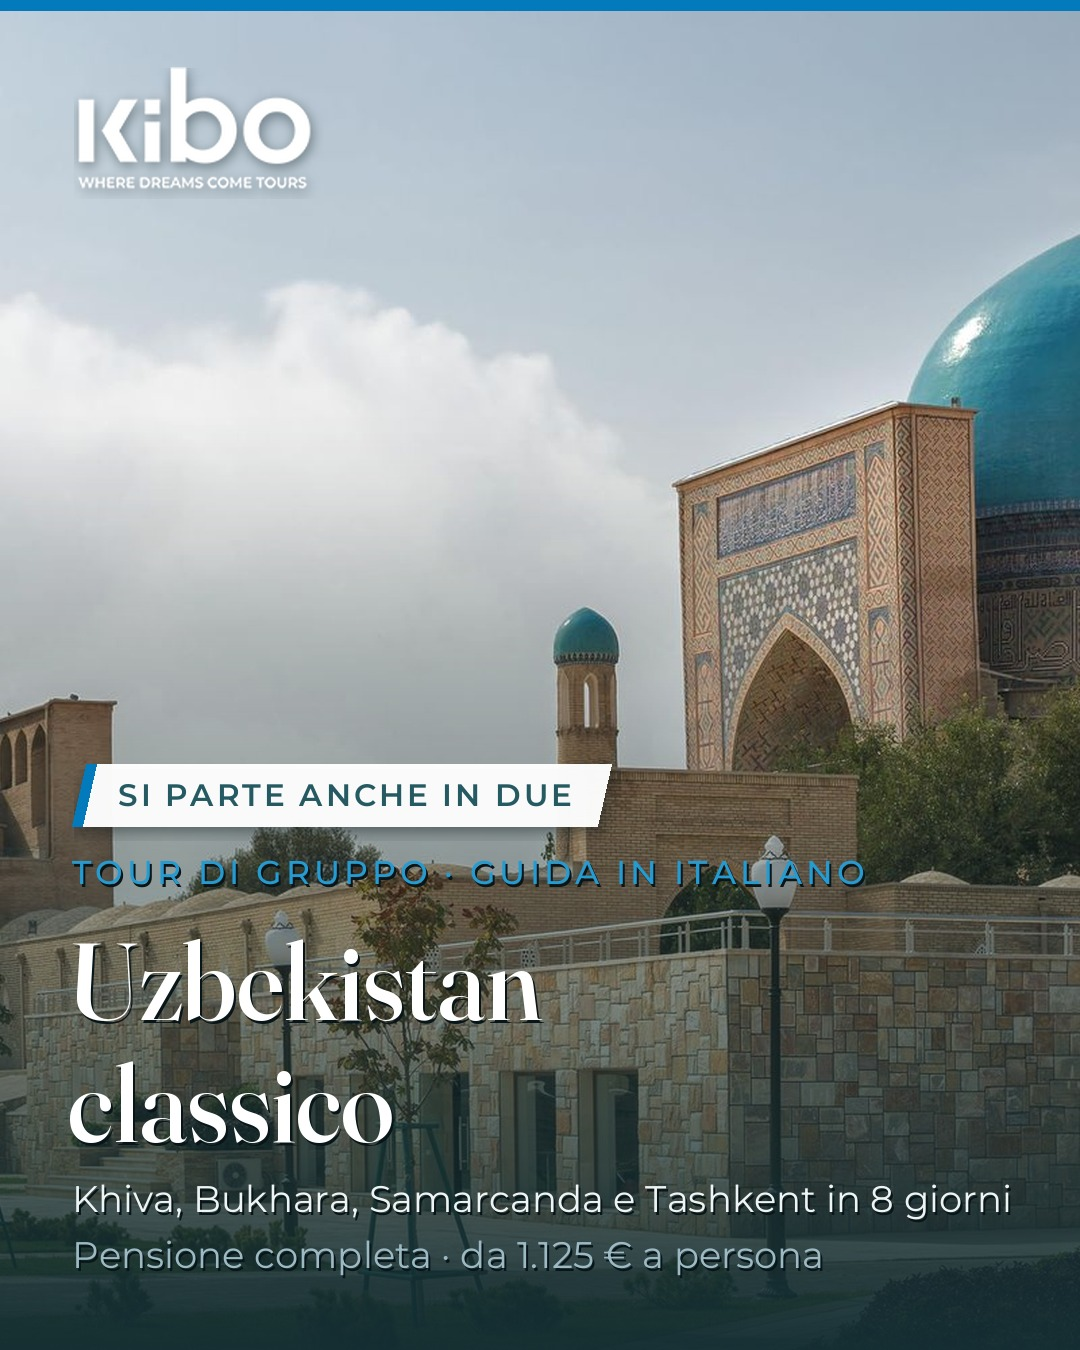
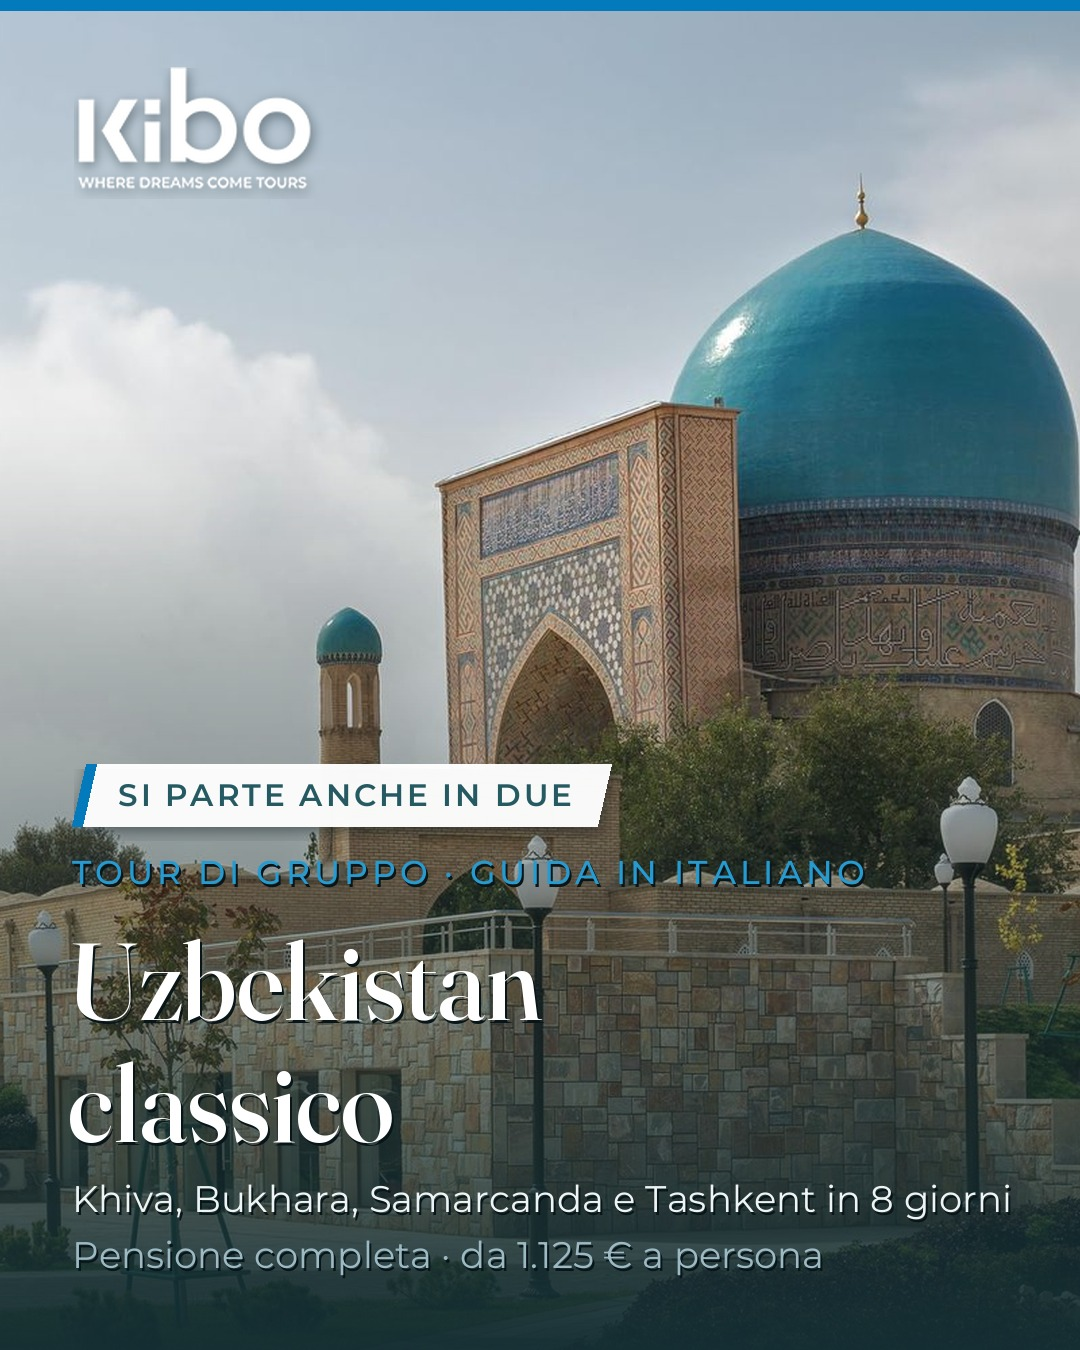
social.py: focus_x per il ritaglio orizzontale; Uzbekistan centrato sulla cupola

diff --git a/scripts/social.py b/scripts/social.py
@@ -30,6 +30,7 @@ VIAGGI = {
         "title": ["Uzbekistan", "classico"],
         "info1": "Khiva, Bukhara, Samarcanda e Tashkent in 8 giorni",
         "info2": "Pensione completa · da 1.125 € a persona",
+        "focus_x": 0.72,
         "ribbon": "SI PARTE ANCHE IN DUE",
         "ribbon_style": "evidenza",
         "cta": "",
@@ -108,12 +109,14 @@ def tracked(draw, xy, text, font, fill, tracking=0, shadow=None):
 def tracked_len(text, font, tracking=0):
     return sum(font.getlength(c) + tracking for c in text) - (tracking if text else 0)
 
-def crop_cover(img, w, h, focus_y=0.55):
+def crop_cover(img, w, h, focus_y=0.55, focus_x=0.5):
+    """Ritaglio a copertura; focus_x/focus_y (0-1) dicono dove sta il soggetto quando si taglia."""
     sw, sh = img.size
     scale = max(w / sw, h / sh)
     nw, nh = int(sw * scale + 0.5), int(sh * scale + 0.5)
     img = img.resize((nw, nh), Image.LANCZOS)
-    left = (nw - w) // 2
+    left = int((nw - w) * focus_x)
+    left = max(0, min(left, nw - w))
     top = int((nh - h) * focus_y)
     top = max(0, min(top, nh - h))
     return img.crop((left, top, left + w, top + h))
@@ -191,13 +194,13 @@ def compose(slug, fmt):
 
     if fmt == "post":
         canvas = Image.new("RGBA", (W, H))
-        canvas.paste(crop_cover(hero, W, H).convert("RGBA"), (0, 0))
+        canvas.paste(crop_cover(hero, W, H, focus_x=vg.get("focus_x", 0.5)).convert("RGBA"), (0, 0))
         canvas.alpha_composite(gradient_overlay((W, H), TEAL_NOTTE, 0.30, 250))
         photo_bottom = H
     else:
         ph = 1150
         canvas = Image.new("RGBA", (W, H), TEAL_NOTTE + (255,))
-        canvas.paste(crop_cover(hero, W, ph).convert("RGBA"), (0, 0))
+        canvas.paste(crop_cover(hero, W, ph, focus_x=vg.get("focus_x", 0.5)).convert("RGBA"), (0, 0))
         canvas.alpha_composite(gradient_overlay((W, ph), TEAL_NOTTE, 0.55, 255))
         photo_bottom = ph
 
